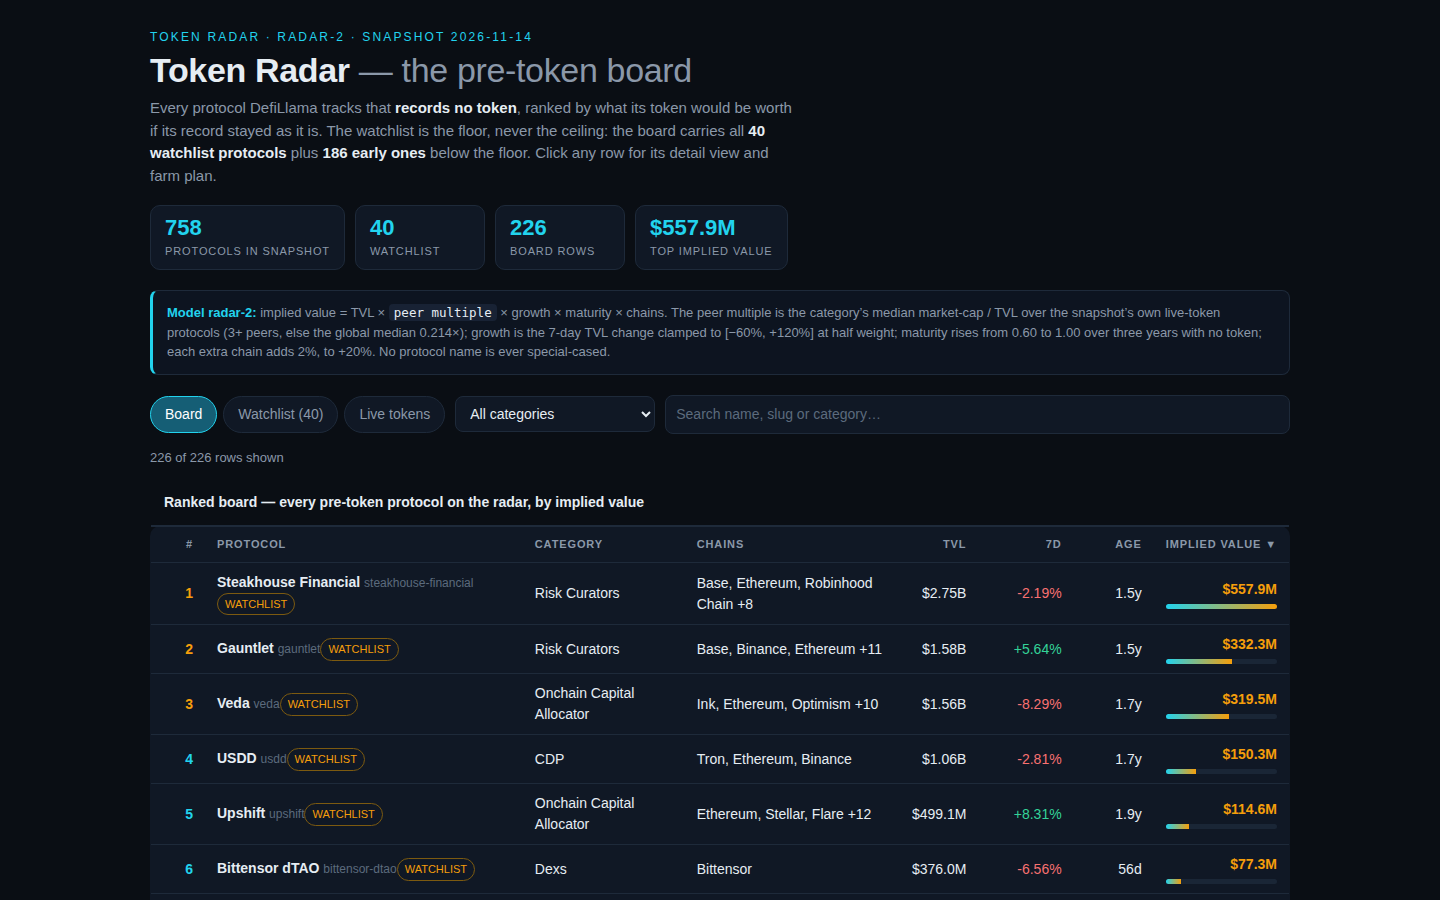
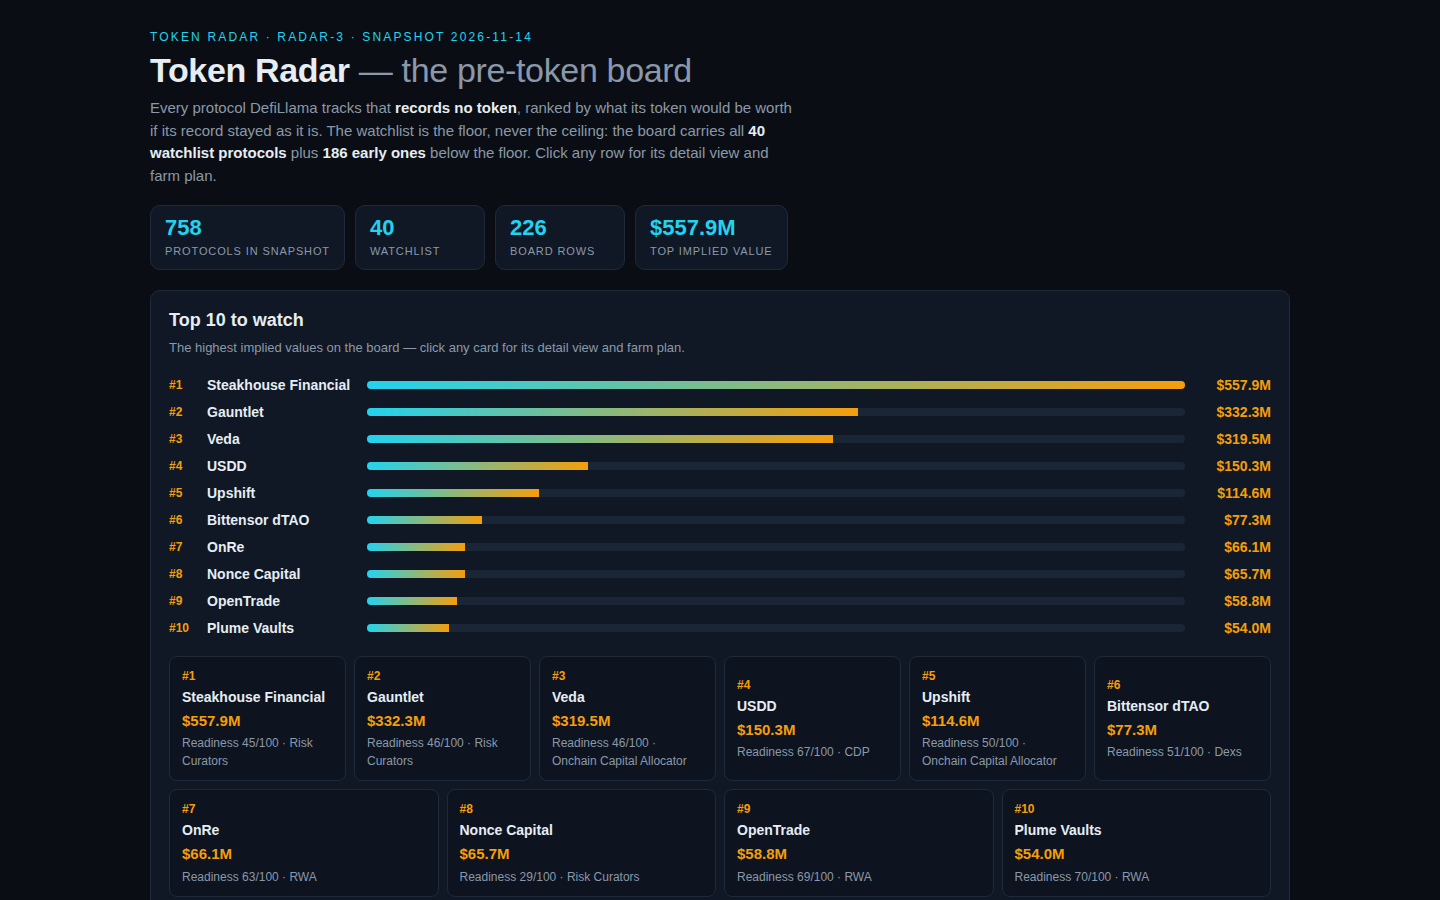
Token Radar radar-3: readiness score + top-10 spotlight + chain filter (226 rows)
- radar-3 model: readiness 0-100 beside the implied value (peer support
  40 / growth 30 / maturity 30, from the same snapshot figures); the
  implied-value formula is unchanged from radar-2, ranking intact.
- Dashboard: top-10 spotlight cards + implied-value bar chart, readiness
  column and peer-multiple column (both sortable), chain filter beside the
  category filter, readiness breakdown + farm-at-a-glance in every detail
  drawer.
- Rebuilt board (226 rows, 40 watchlist + 186 early, 24 live set aside)
  and re-took the 3 screenshots (board, detail, filtered).

diff --git a/dashboard/app.js b/dashboard/app.js
@@ -11,7 +11,7 @@
   var app = document.getElementById('board');
   var watch = {};
   DATA.rows.forEach(function (r) { if (r.watch) watch[r.slug] = true; });
-  var state = { q: '', category: 'all', tab: 'board', sort: 'implied_value_usd', dir: -1, selected: null };
+  var state = { q: '', category: 'all', chain: 'all', tab: 'board', sort: 'implied_value_usd', dir: -1, selected: null };
   var WATCH = DATA.rows.filter(function (r) { return r.watch; }).length;
 
   var usd = new Intl.NumberFormat('en-US', { style: 'currency', currency: 'USD', maximumFractionDigits: 0 });
@@ -50,6 +50,16 @@
     var chainMult = 1 + model.chain_step * Math.min(Math.max(row.chains.length - 1, 0), model.chain_cap);
     var implied = Math.max(1, Math.round(row.tvl_usd * m.multiple * growthMult * maturity * chainMult));
     return { implied: implied, multiple: m.multiple, peers: m.peers, fallback: m.fallback, growth: growth, growthMult: growthMult, maturity: maturity, chainMult: chainMult, age: age };
+  }
+
+  // radar-3 readiness (0-100), mirroring lib/model.ts: peer support 40/20/10,
+  // growth mapped from [-60, +120] to 0-30, maturity mapped from [0.60, 1.00] to 0-30.
+  function readinessOf(row) {
+    var calc = impliedOf(row, DATA.model);
+    var peerPts = calc.peers >= 3 ? 40 : calc.peers >= 1 ? 20 : 10;
+    var growthPts = Math.max(0, Math.min(30, Math.round(((calc.growth + 60) / 180) * 30)));
+    var matPts = Math.max(0, Math.min(30, Math.round(((calc.maturity - 0.6) / 0.4) * 30)));
+    return { readiness: peerPts + growthPts + matPts, peer: peerPts, growth: growthPts, maturity: matPts };
   }
 
   function el(tag, attrs) {
@@ -146,6 +156,7 @@
     var rows = DATA.rows;
     if (state.tab === 'watchlist') rows = rows.filter(function (r) { return r.watch; });
     if (state.category !== 'all') rows = rows.filter(function (r) { return (r.category || 'Uncategorised') === state.category; });
+    if (state.chain !== 'all') rows = rows.filter(function (r) { return (r.chains || []).indexOf(state.chain) >= 0; });
     if (state.q) {
       var q = state.q.toLowerCase();
       rows = rows.filter(function (r) { return r.name.toLowerCase().indexOf(q) >= 0 || r.slug.toLowerCase().indexOf(q) >= 0 || (r.category || '').toLowerCase().indexOf(q) >= 0; });
@@ -170,6 +181,41 @@
     } });
   }
 
+  // radar-3 spotlight: the top 10 by implied value, as cards with a bar chart,
+  // so the best launches are visible before the full table.
+  function renderSpotlight() {
+    var top = DATA.rows.slice(0, 10);
+    if (top.length === 0) return el('div');
+    var maxImp = top[0].implied_value_usd || 1;
+    var sec = el('section', { class: 'spot' });
+    sec.appendChild(el('h2', { text: 'Top 10 to watch' }));
+    sec.appendChild(el('p', { class: 'spot-sub', text: 'The highest implied values on the board — click any card for its detail view and farm plan.' }));
+    var chart = el('div', { class: 'chart' });
+    top.forEach(function (r) {
+      var row = el('div', { class: 'crow' });
+      row.appendChild(el('span', { class: 'cnum', text: '#' + r.rank }));
+      row.appendChild(el('span', { class: 'cname', text: r.name }));
+      var cbar = el('div', { class: 'cbar' });
+      cbar.appendChild(el('i', { style: 'width:' + Math.max(2, Math.round(100 * r.implied_value_usd / maxImp)) + '%' }));
+      row.appendChild(cbar);
+      row.appendChild(el('span', { class: 'cval', text: fmtUsd(r.implied_value_usd) }));
+      chart.appendChild(row);
+    });
+    sec.appendChild(chart);
+    var cards = el('div', { class: 'cards' });
+    top.forEach(function (r) {
+      var ready = readinessOf(r);
+      var card = el('button', { class: 'card', onclick: function () { openDetail(r.slug); } });
+      card.appendChild(el('div', { class: 'card-rank', text: '#' + r.rank }));
+      card.appendChild(el('div', { class: 'card-name', text: r.name }));
+      card.appendChild(el('div', { class: 'card-imp', text: fmtUsd(r.implied_value_usd) }));
+      card.appendChild(el('div', { class: 'card-rdy', text: 'Readiness ' + ready.readiness + '/100 · ' + (r.category || 'Uncategorised') }));
+      cards.appendChild(card);
+    });
+    sec.appendChild(cards);
+    return sec;
+  }
+
   function renderBoardTable() {
     var rows = visibleRows();
     var maxImp = DATA.rows.length ? DATA.rows[0].implied_value_usd : 1;
@@ -183,11 +229,13 @@
     head.appendChild(el('th', { class: 'num' }, sortButton('TVL', 'tvl_usd')));
     head.appendChild(el('th', { class: 'num' }, sortButton('7d', 'change_7d')));
     head.appendChild(el('th', { class: 'num' }, sortButton('Age', 'age_days')));
+    head.appendChild(el('th', { class: 'num' }, sortButton('Multiple', 'peer_multiple')));
+    head.appendChild(el('th', { class: 'num' }, sortButton('Readiness', 'readiness')));
     head.appendChild(el('th', { class: 'num' }, sortButton('Implied value', 'implied_value_usd')));
     table.appendChild(el('thead', {}, head));
     var body = el('tbody');
     if (rows.length === 0) {
-      body.appendChild(el('tr', {}, el('td', { colspan: 8, class: 'empty', text: 'Nothing on the radar matches that filter.' })));
+      body.appendChild(el('tr', {}, el('td', { colspan: 10, class: 'empty', text: 'Nothing on the radar matches that filter.' })));
     }
     rows.forEach(function (r) {
       var tr = el('tr', { class: state.selected === r.slug ? 'sel' : '', onclick: function () { openDetail(r.slug); } });
@@ -197,6 +245,12 @@
       var bar = el('div', { class: 'bar' });
       bar.appendChild(el('i', { style: 'width:' + Math.max(2, Math.round(100 * r.implied_value_usd / maxImp)) + '%' }));
       imp.appendChild(bar);
+      var ready = readinessOf(r);
+      var rdy = el('div');
+      rdy.appendChild(el('span', { class: 'rdy' + (ready.readiness >= 70 ? ' hi' : ready.readiness >= 50 ? ' mid' : ' lo'), text: String(ready.readiness) }));
+      var rbar = el('div', { class: 'bar rbar' });
+      rbar.appendChild(el('i', { style: 'width:' + ready.readiness + '%' }));
+      rdy.appendChild(rbar);
       tr.appendChild(el('td', { class: 'num' }, el('span', { class: 'rank' + (r.rank <= 3 ? ' top' : ''), text: String(r.rank) })));
       var nameCell = el('td');
       nameCell.appendChild(el('span', { class: 'name', text: r.name + ' ' }));
@@ -208,6 +262,8 @@
       tr.appendChild(el('td', { class: 'num', text: fmtUsd(r.tvl_usd) }));
       tr.appendChild(el('td', { class: 'num' }, pct));
       tr.appendChild(el('td', { class: 'num', text: fmtAge(r.age_days) }));
+      tr.appendChild(el('td', { class: 'num', text: r.peer_multiple !== null && r.peer_multiple !== undefined ? r.peer_multiple.toFixed(2) + '×' : 'n/a' }));
+      tr.appendChild(el('td', { class: 'num' }, rdy));
       tr.appendChild(el('td', { class: 'num' }, imp));
       body.appendChild(tr);
     });
@@ -269,6 +325,17 @@
     mrow('Chain spread (' + (row.chains || []).length + ' chains)', calc.chainMult.toFixed(4) + '×', calc.chainMult.toFixed(4) + '×');
     math.appendChild(el('tr', { class: 'total' }, el('td', { text: 'Implied value' }), el('td', { text: fmtUsd(row.implied_value_usd) }), el('td', { text: calc.implied === row.implied_value_usd ? '✓ matches board' : 'recomputed ' + fmtUsd(calc.implied) })));
     drawer.appendChild(math);
+    var ready = readinessOf(row);
+    var rdy = el('table', { class: 'math' });
+    rdy.appendChild(el('tr', {}, el('th', { text: 'Readiness — how well-supported the launch is' }), el('th', { text: 'Points' }), el('th', { text: 'of' })));
+    rdy.appendChild(el('tr', {}, el('td', { text: 'Peer support (' + calc.peers + ' live peers behind the multiple)' }), el('td', { text: String(ready.peer) }), el('td', { text: '40' })));
+    rdy.appendChild(el('tr', {}, el('td', { text: 'Growth (' + fmtPct(row.change_7d) + ' in 7 days)' }), el('td', { text: String(ready.growth) }), el('td', { text: '30' })));
+    rdy.appendChild(el('tr', {}, el('td', { text: 'Maturity (' + fmtAge(row.age_days) + ' with no token)' }), el('td', { text: String(ready.maturity) }), el('td', { text: '30' })));
+    rdy.appendChild(el('tr', { class: 'total' }, el('td', { text: 'Readiness' }), el('td', { text: String(ready.readiness) }), el('td', { text: '100' })));
+    drawer.appendChild(rdy);
+    var cap = capitalFor(row);
+    var hold = holdDaysFor(row.age_days);
+    drawer.appendChild(el('p', { class: 'farm-sum', html: '<b>Farm at a glance:</b> $' + cap + ' capital · hold ' + hold + ' days · 7 steps · about 50 minutes of active time.' }));
     drawer.appendChild(el('h3', { text: 'Farm plan — 7 steps' }));
     var steps = el('ol', { class: 'steps' });
     farmSteps(row).forEach(function (s) {
@@ -299,7 +366,8 @@
       stats.appendChild(el('div', { class: 'stat' }, el('div', { class: 'n', text: s[1] }), el('div', { class: 'l', text: s[0] })));
     });
     wrap.appendChild(stats);
-    wrap.appendChild(el('p', { class: 'model-line', html: '<b>Model ' + DATA.model_version + ':</b> implied value = TVL × <code>peer multiple</code> × growth × maturity × chains. The peer multiple is the category\u2019s median market-cap / TVL over the snapshot\u2019s own live-token protocols (3+ peers, else the global median ' + DATA.peers.global.toFixed(3) + '×); growth is the 7-day TVL change clamped to [−60%, +120%] at half weight; maturity rises from 0.60 to 1.00 over three years with no token; each extra chain adds 2%, to +20%. No protocol name is ever special-cased.' }));
+    wrap.appendChild(renderSpotlight());
+    wrap.appendChild(el('p', { class: 'model-line', html: '<b>Model ' + DATA.model_version + ':</b> implied value = TVL × <code>peer multiple</code> × growth × maturity × chains. The peer multiple is the category\u2019s median market-cap / TVL over the snapshot\u2019s own live-token protocols (3+ peers, else the global median ' + DATA.peers.global.toFixed(3) + '×); growth is the 7-day TVL change clamped to [−60%, +120%] at half weight; maturity rises from 0.60 to 1.00 over three years with no token; each extra chain adds 2%, to +20%. <b>Readiness (0–100)</b> scores how well-supported a launch is: peer support 40 (3+ live peers), growth 30, maturity 30. No protocol name is ever special-cased.' }));
     var controls = el('div', { class: 'controls' });
     var tabs = el('div', { class: 'tabs' });
     [['board', 'Board'], ['watchlist', 'Watchlist (' + DATA.watchlist_size + ')'], ['live', 'Live tokens']].forEach(function (t) {
@@ -316,6 +384,16 @@
       sel.appendChild(o);
     });
     controls.appendChild(sel);
+    var chainList = ['all'];
+    DATA.rows.forEach(function (r) { (r.chains || []).forEach(function (c) { if (chainList.indexOf(c) < 0) chainList.push(c); }); });
+    chainList.sort();
+    var chainSel = el('select', { class: 'cat', 'aria-label': 'Filter by chain', onchange: function (e) { state.chain = e.target.value; render(); } });
+    chainList.forEach(function (c) {
+      var o = el('option', { value: c, text: c === 'all' ? 'All chains' : c });
+      if (state.chain === c) o.selected = true;
+      chainSel.appendChild(o);
+    });
+    controls.appendChild(chainSel);
     controls.appendChild(el('input', { class: 'search', type: 'search', placeholder: 'Search name, slug or category…', value: state.q, 'aria-label': 'Search protocols', oninput: function (e) { state.q = e.target.value; renderTableOnly(); } }));
     wrap.appendChild(controls);
     var count = el('p', { class: 'count', id: 'rowcount' });
@@ -335,7 +413,7 @@
     method.appendChild(peers);
     method.appendChild(el('p', { html: 'Each farm plan is derived from the protocol\u2019s own record — its category decides the action, its TVL decides the capital ($50–$250), its age decides the hold (30–60 days) — with what each step costs and how long it takes. Nothing here predicts whether or when a token is issued.' }));
     wrap.appendChild(method);
-    wrap.appendChild(el('footer', { text: 'Source: ' + DATA.source + '. Implied values are this entry\u2019s own model (radar-2), not a prediction and never make.fun\u2019s claim. Built from the sealed snapshot of ' + DATA.as_of + '; the page runs with no network.' }));
+    wrap.appendChild(el('footer', { text: 'Source: ' + DATA.source + '. Implied values are this entry\u2019s own model (' + DATA.model_version + '), not a prediction and never make.fun\u2019s claim. Built from the sealed snapshot of ' + DATA.as_of + '; the page runs with no network.' }));
     renderTableOnly();
     if (state.selected) openDetail(state.selected);
   }

diff --git a/lib/model.ts b/lib/model.ts
@@ -1,4 +1,4 @@
-// The token radar's model, radar-2: one snapshot of the protocol universe in,
+// The token radar's model, radar-3: one snapshot of the protocol universe in,
 // one ranked board out.
 //
 // The board covers every slug in the snapshot's watchlist (the floor, never a
@@ -24,6 +24,14 @@
 //                  (age_days unknown: 365)
 //   chains         = 1 + 0.02 x min(chains - 1, 10)
 //   implied        = max(1, round(base x growthMult x maturity x chains))
+//
+// radar-3 adds a readiness score (0-100) beside the implied value, from the
+// same figures, so a reader can tell a well-supported launch from a thin
+// one at a glance: peer support (40: 3+ live peers behind the multiple, 20:
+// 1-2, 10: none), growth (30: the 7-day change mapped from [-60, +120] to
+// 0-30) and maturity (30: the maturity multiplier mapped from [0.60, 1.00]
+// to 0-30). The implied value is unchanged from radar-2; readiness only
+// ranks confidence, never the money.
 //
 // The dashboard states the formula and the peer table, and the page
 // recomputes every row from the same figures, so the board, the page and
@@ -84,7 +92,7 @@ export const MODEL: ModelConstants = {
 };
 
 /** The model's version label: the dashboard names it. */
-export const MODEL_VERSION = 'radar-2';
+export const MODEL_VERSION = 'radar-3';
 
 /** How many live-token protocols the Live token view carries, by market cap. */
 export const LIVE_ROWS = 24;
@@ -130,6 +138,11 @@ export interface BoardRow {
     maturity_multiplier: number;
     chain_multiplier: number;
     age_days: number | null;
+    /** radar-3: how well-supported the launch is (0-100), and its parts. */
+    readiness: number;
+    readiness_peer: number;
+    readiness_growth: number;
+    readiness_maturity: number;
   };
   farm_steps: string[];
 }
@@ -152,6 +165,11 @@ export interface RadarRow {
   growth_multiplier: number;
   maturity_multiplier: number;
   chain_multiplier: number;
+  /** radar-3: readiness (0-100) and its parts, from the same figures. */
+  readiness: number;
+  readiness_peer: number;
+  readiness_growth: number;
+  readiness_maturity: number;
   /** Whether the slug is on the snapshot's watchlist (the floor). */
   watch: boolean;
 }
@@ -253,6 +271,14 @@ export function ageDays(asOf: string, listedAt: string | null): number | null {
   return Math.max(0, Math.floor((a - b) / DAY_MS));
 }
 
+/** radar-3 readiness (0-100): how well-supported a launch is, from the same figures the implied value uses. Peer support is 40 points (3+ live peers behind the multiple, 20 for 1-2, 10 for none); growth maps the clamped 7-day change [-60, +120] to 0-30; maturity maps the multiplier [0.60, 1.00] to 0-30. It ranks confidence, never the money. */
+export function readinessFor(peerCount: number, growthPct: number, maturityMult: number): { readiness: number; peer: number; growth: number; maturity: number } {
+  const peer = peerCount >= 3 ? 40 : peerCount >= 1 ? 20 : 10;
+  const growth = Math.max(0, Math.min(30, Math.round(((growthPct + 60) / 180) * 30)));
+  const maturity = Math.max(0, Math.min(30, Math.round(((maturityMult - 0.6) / 0.4) * 30)));
+  return { readiness: peer + growth + maturity, peer, growth, maturity };
+}
+
 /** The multipliers and the implied value one protocol gets under `model`. */
 export function impliedValue(
   protocol: SnapshotProtocol,
@@ -337,6 +363,10 @@ export function buildBoard(snapshot: Snapshot, model: ModelConstants = MODEL): B
       maturity_multiplier: round4(s.maturityMult),
       chain_multiplier: round4(s.chainMult),
       age_days: s.age,
+      readiness: readinessFor(s.peerCount, s.growthPct, s.maturityMult).readiness,
+      readiness_peer: readinessFor(s.peerCount, s.growthPct, s.maturityMult).peer,
+      readiness_growth: readinessFor(s.peerCount, s.growthPct, s.maturityMult).growth,
+      readiness_maturity: readinessFor(s.peerCount, s.growthPct, s.maturityMult).maturity,
     },
     farm_steps: farmSteps(s.p, s.age).map(stepText),
   }));
@@ -495,6 +525,10 @@ export function radarRow(row: BoardRow, watch: boolean): RadarRow {
     growth_multiplier: row.model.growth_multiplier,
     maturity_multiplier: row.model.maturity_multiplier,
     chain_multiplier: row.model.chain_multiplier,
+    readiness: row.model.readiness,
+    readiness_peer: row.model.readiness_peer,
+    readiness_growth: row.model.readiness_growth,
+    readiness_maturity: row.model.readiness_maturity,
     watch,
   };
 }

diff --git a/dashboard/app.css b/dashboard/app.css
@@ -74,8 +74,31 @@ table.board { width: 100%; border-collapse: collapse; background: var(--panel); 
 .badge.live { color: var(--green); border-color: #14532d; }
 .up { color: var(--green); } .down { color: var(--red); }
 .imp { font-weight: 700; color: var(--amber); }
+.rdy { font-weight: 700; }
+.rdy.hi { color: var(--green); } .rdy.mid { color: var(--amber); } .rdy.lo { color: var(--muted); }
 .bar { height: 5px; background: #1a2636; border-radius: 3px; margin-top: 4px; overflow: hidden; }
 .bar i { display: block; height: 100%; background: linear-gradient(90deg, var(--cyan), var(--amber)); }
+.bar.rbar i { background: linear-gradient(90deg, var(--violet), var(--green)); }
+/* radar-3 spotlight: top-10 chart + cards */
+.spot { background: var(--panel); border: 1px solid var(--line); border-radius: var(--radius); padding: 16px 18px; margin: 0 0 20px; }
+.spot h2 { font-size: 18px; margin: 0 0 4px; }
+.spot-sub { color: var(--muted); font-size: 13px; margin: 0 0 14px; }
+.chart { margin: 0 0 14px; }
+.crow { display: flex; align-items: center; gap: 10px; padding: 3px 0; }
+.cnum { color: var(--amber); font-weight: 700; min-width: 28px; font-size: 12px; }
+.cname { min-width: 150px; font-weight: 600; white-space: nowrap; overflow: hidden; text-overflow: ellipsis; }
+.cbar { flex: 1; height: 8px; background: #1a2636; border-radius: 4px; overflow: hidden; }
+.cbar i { display: block; height: 100%; background: linear-gradient(90deg, var(--cyan), var(--amber)); }
+.cval { min-width: 76px; text-align: right; font-weight: 700; color: var(--amber); font-variant-numeric: tabular-nums; }
+.cards { display: flex; flex-wrap: wrap; gap: 8px; }
+.card { flex: 1 1 150px; text-align: left; background: var(--panel2); color: var(--ink); border: 1px solid var(--line); border-radius: 8px; padding: 10px 12px; font: inherit; cursor: pointer; }
+.card:hover { border-color: var(--cyan); }
+.card-rank { color: var(--amber); font-weight: 700; font-size: 12px; }
+.card-name { font-weight: 700; margin: 2px 0; white-space: nowrap; overflow: hidden; text-overflow: ellipsis; }
+.card-imp { color: var(--amber); font-weight: 700; font-size: 15px; }
+.card-rdy { color: var(--muted); font-size: 12px; margin-top: 2px; }
+.farm-sum { background: var(--panel2); border: 1px solid var(--line); border-left: 3px solid var(--green); border-radius: 8px; padding: 10px 12px; font-size: 13px; color: var(--muted); margin: 0 0 14px; }
+.farm-sum b { color: var(--ink); }
 .empty { padding: 26px; text-align: center; color: var(--muted); }
 .drawer {
   position: fixed; top: 0; right: 0; bottom: 0; width: min(480px, 94vw);

diff --git a/README.md b/README.md
@@ -6,7 +6,7 @@
 
 Build the best token launch radar. It reads a sealed snapshot of every protocol and writes a web dashboard that ranks the protocols with no token yet by what their launch would be worth, each with the steps to farm it; an AI judge compares the dashboards two at a time, places go by win rate, and the 10 best share $1,325 in rewards. Built by an AI agent for make.fun's “Build the best token launch radar” bounty, $1,325 in USDC.
 
-## Model (radar-2)
+## Model (radar-3)
 
 Implied value = TVL × **peer multiple** × growth × maturity × chains.
 
@@ -14,6 +14,9 @@ Implied value = TVL × **peer multiple** × growth × maturity × chains.
 - **Growth**: the 7-day TVL change, clamped to [−60%, +120%], at half weight.
 - **Maturity**: rises from 0.60 to 1.00 over three years with no token (unknown age: 365 days).
 - **Chains**: each extra chain adds 2%, to +20%.
+- **Readiness (0–100)**: how well-supported a launch is, from the same figures — peer support 40 (3+ live peers behind the multiple, 20 for 1–2, 10 for none), growth 30 (the 7-day change mapped from [−60%, +120%]), maturity 30 (the multiplier mapped from [0.60, 1.00]). Readiness ranks confidence, never the money; the implied value is unchanged from radar-2.
+
+The dashboard adds a top-10 spotlight (cards + bar chart), a readiness column with a sortable score, the peer multiple in the board, a chain filter beside the category filter, and a readiness breakdown plus a farm-at-a-glance line in every protocol's detail view.
 
 The board covers all 40 watchlist protocols (TVL at or above the $50M floor, recording no token, not a wrapped/staked product of a token that trades) plus every rankable pre-token protocol below the floor — 226 rows in all. Each row carries a 7-step farm plan derived from the protocol's own record (category, chains, TVL, age), with what each step costs and how long it takes. Live-token protocols are shown separately at the market's own value, never mixed into the ranked board.
 
